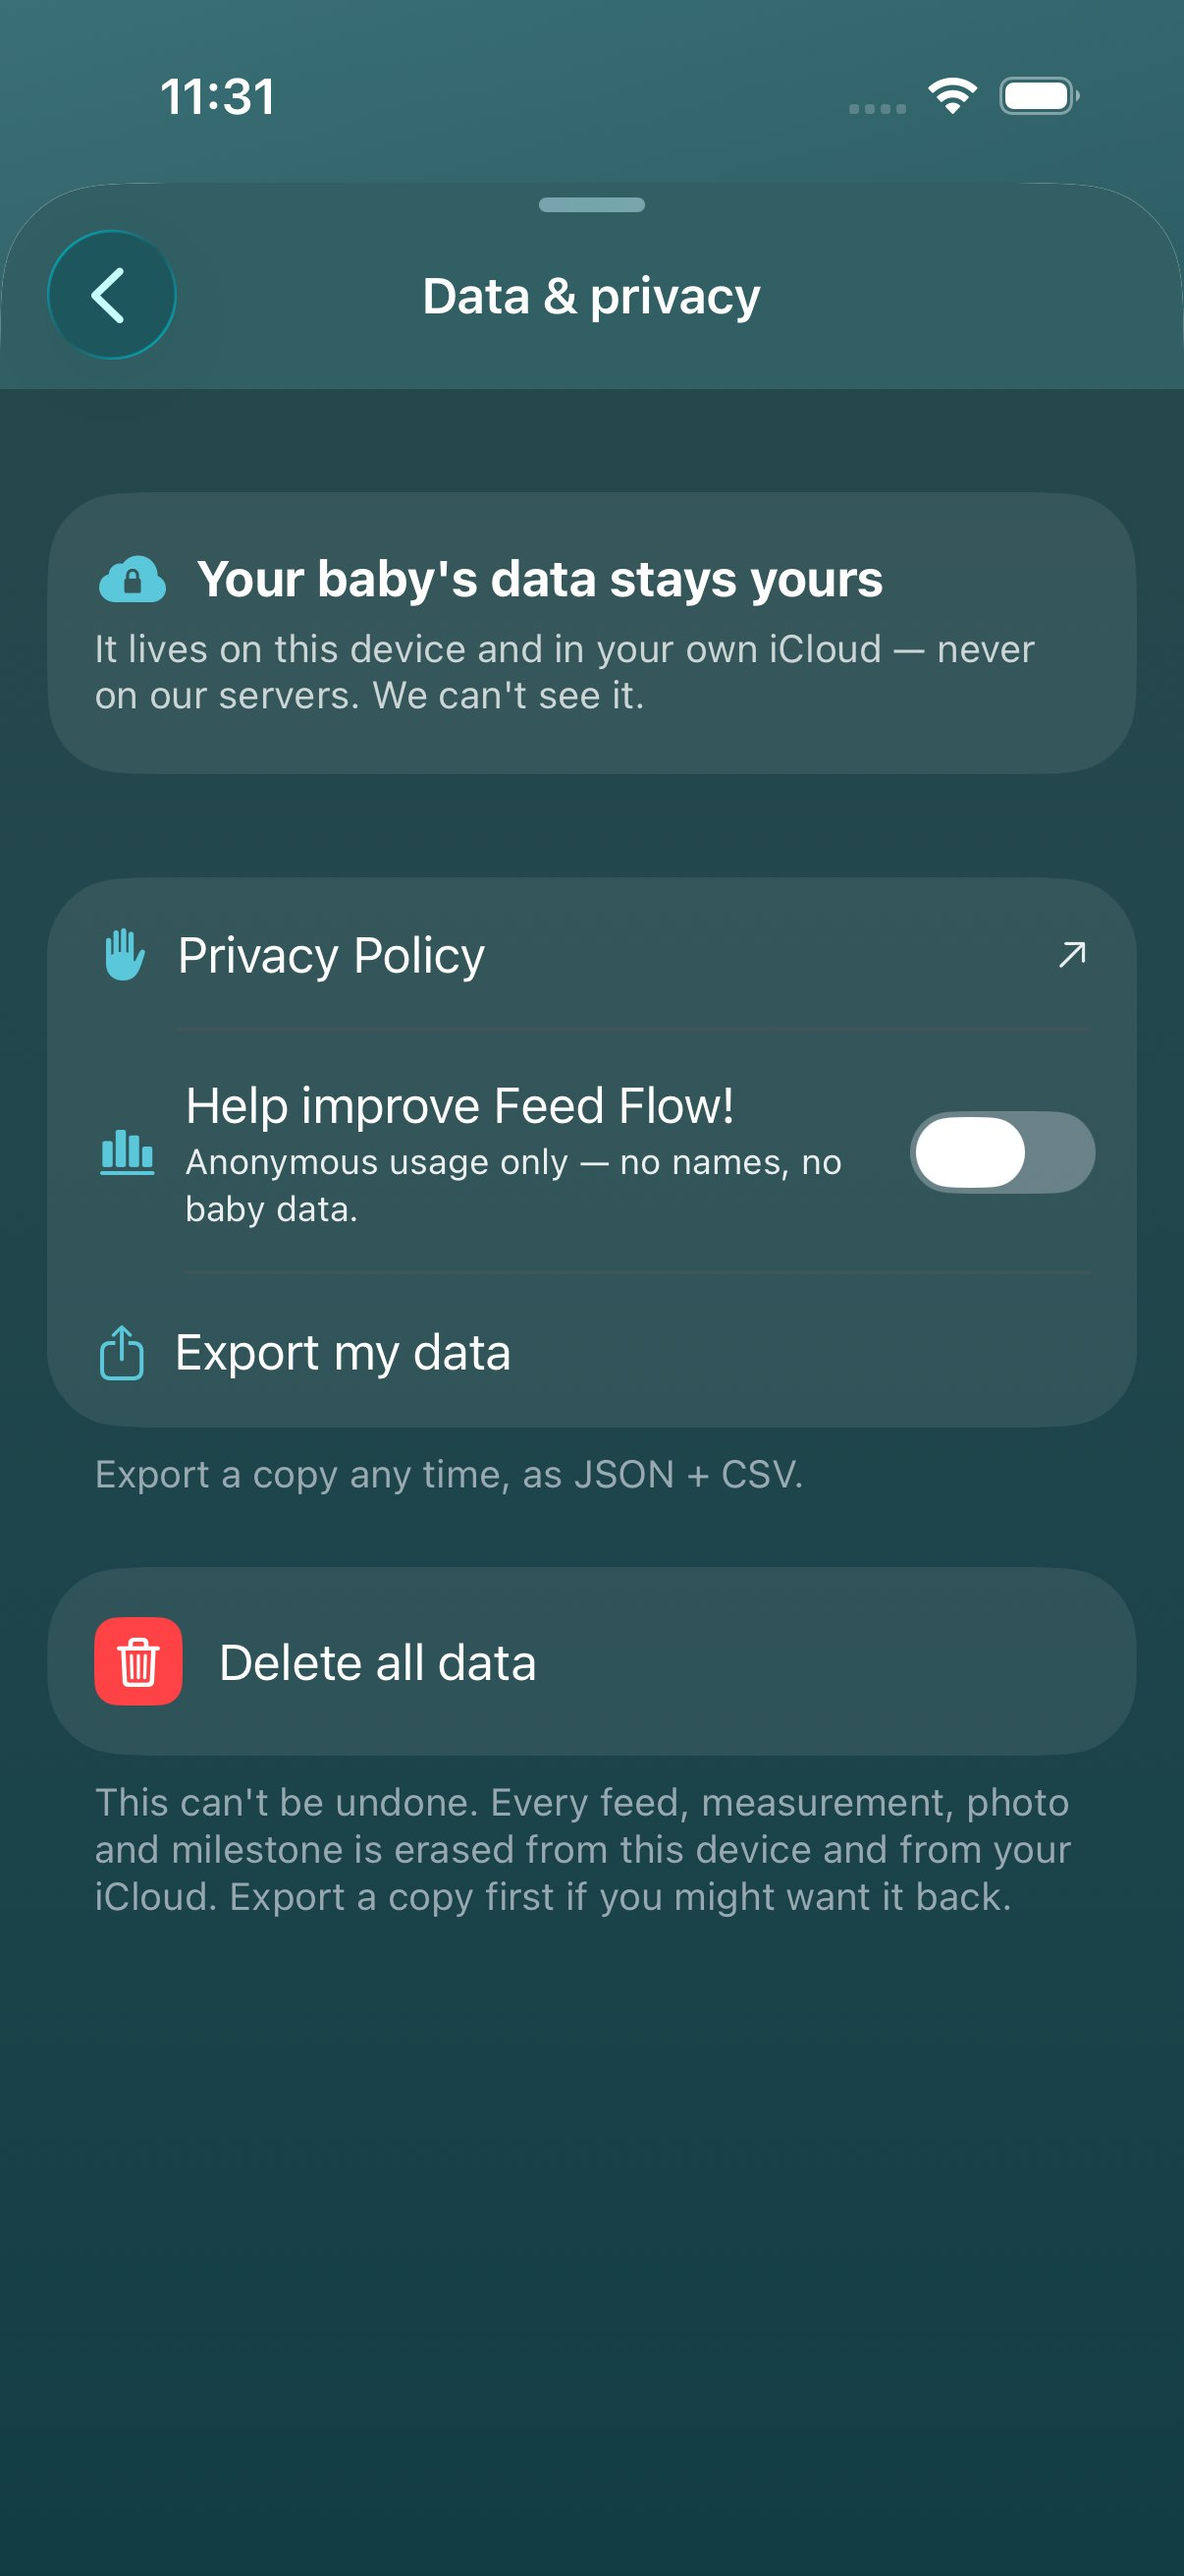
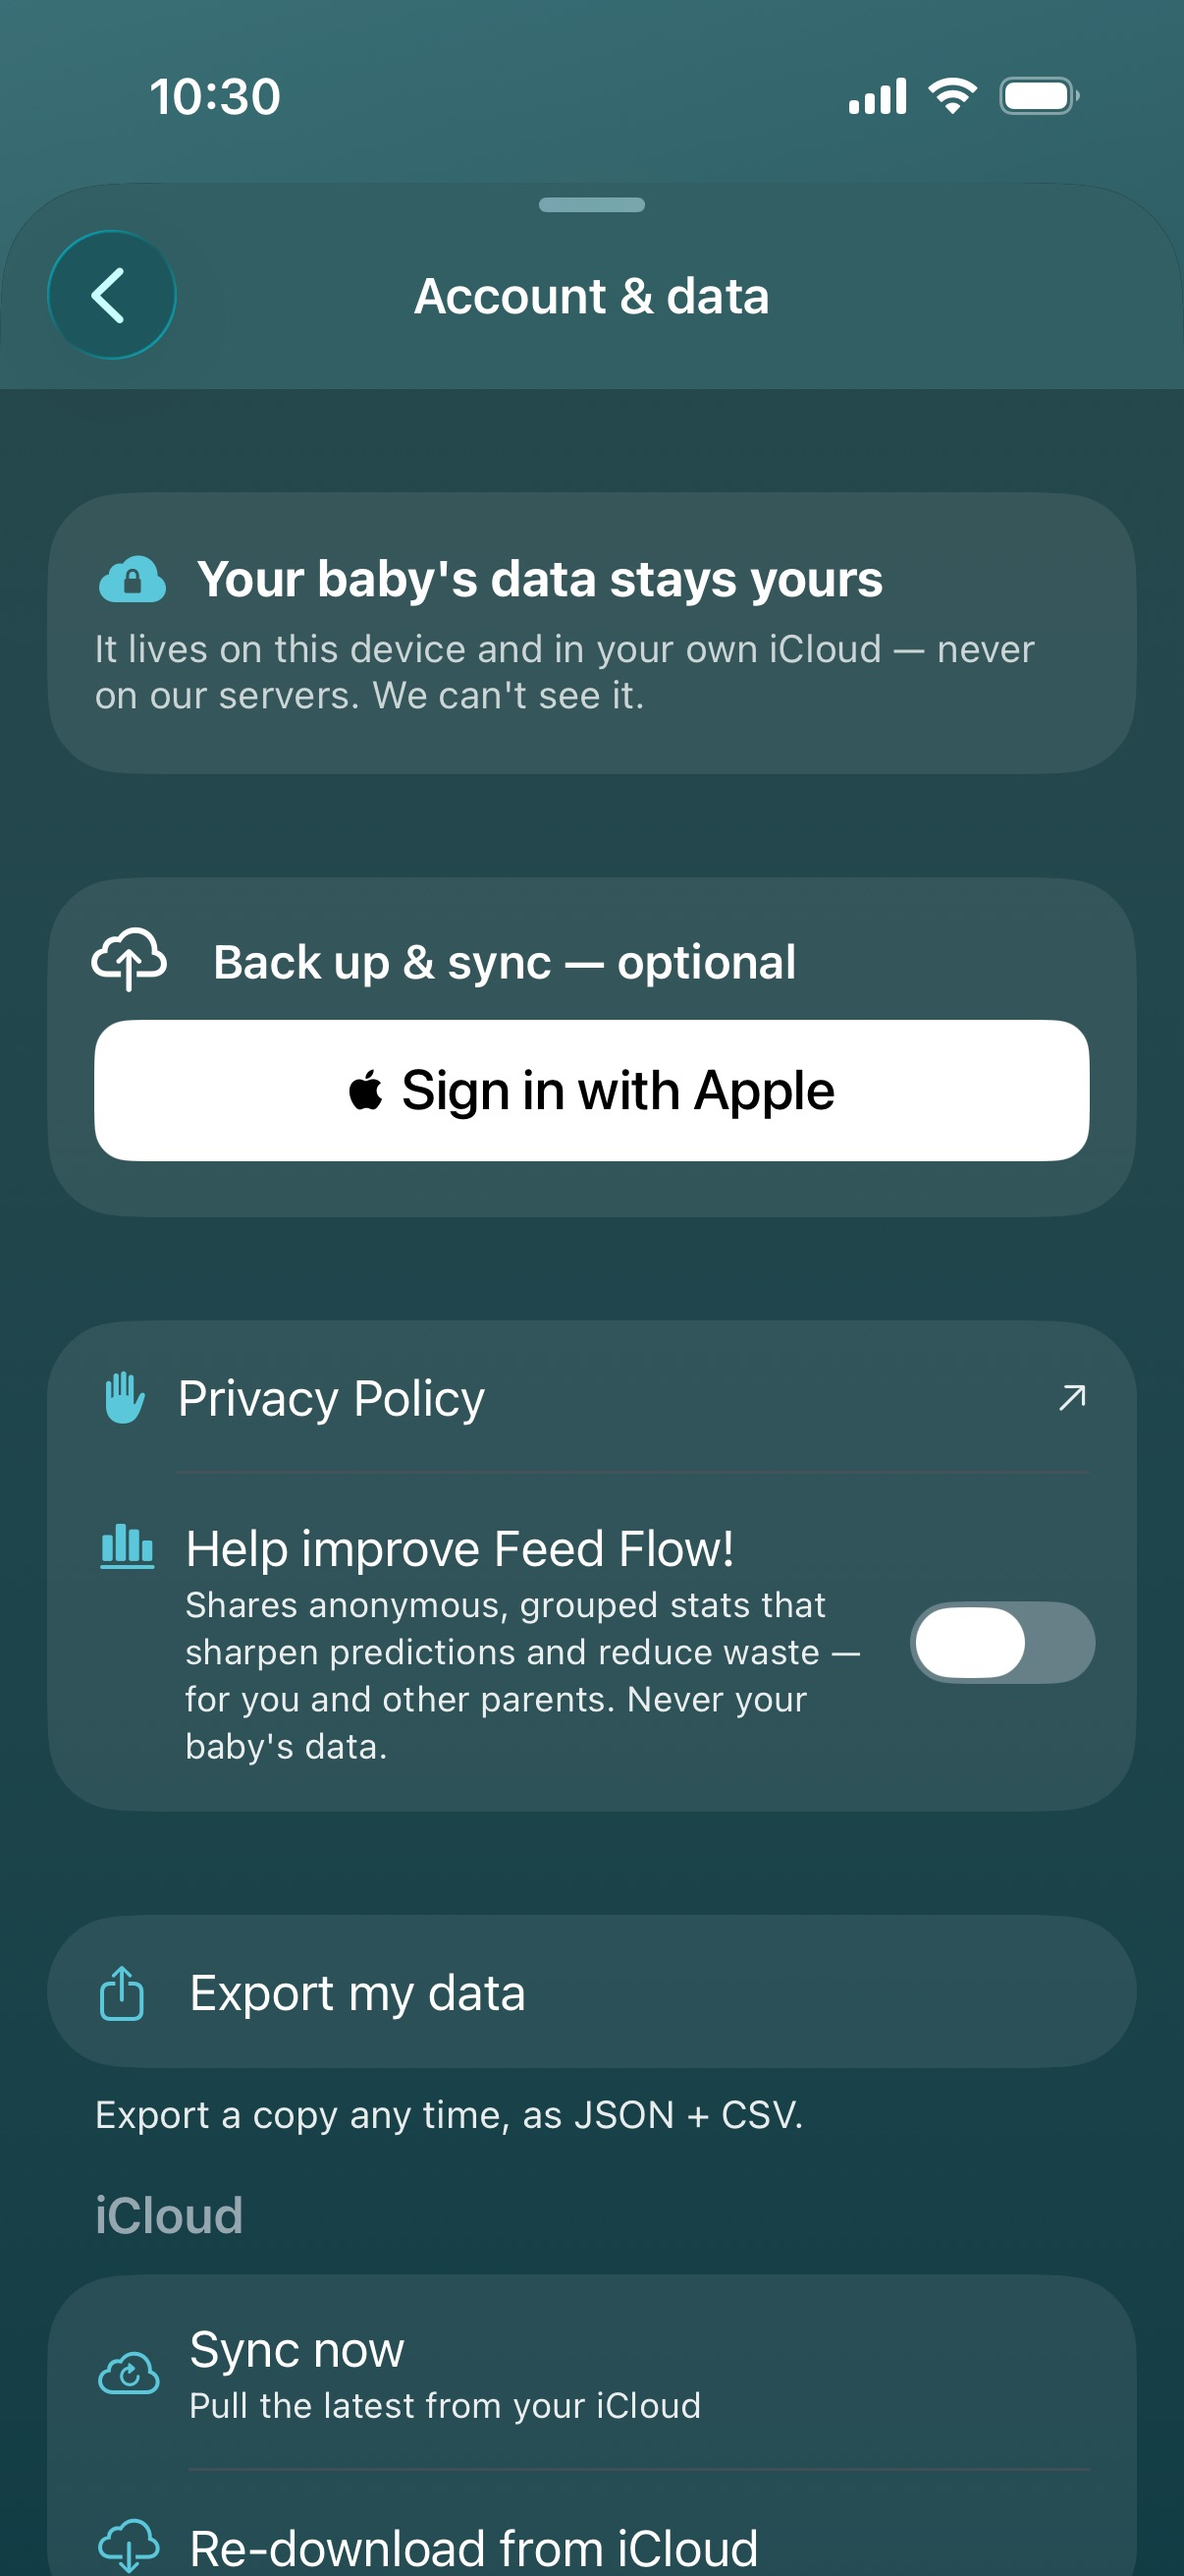
site: screens from the 1.65.4 store set (new bottle sheet, type picker, Account & data); alts + llms.txt family-sharing truth

diff --git a/index.html b/index.html
@@ -560,7 +560,7 @@ footer.ft { border-top: 1px solid var(--border-2); padding: 54px 0 60px; }
   <div class="hero-stage reveal d2">
     <div class="device">
       <div class="plinth"></div>
-      <div class="bezel"><img src="screens/safe-window.jpg" alt="A prepared formula bottle in Feed Flow, with its safe window counting down: started 21:07, 59 minutes 53 seconds remaining, ends 22:07. The bottle shows 70 ml left and the 90 ml taken, with buttons to log and keep the bottle or log and finish." loading="eager"></div>
+      <div class="bezel"><img src="screens/safe-window.jpg" alt="A prepared formula bottle in Feed Flow, with its safe window counting down: started 10:07 AM, 33 minutes 57 seconds left, ends 11:07 AM. The bottle shows 2.25 oz left and 3 oz taken, with buttons to log and keep the bottle or log and finish." loading="eager"></div>
     </div>
   </div>
 </section>
@@ -604,7 +604,7 @@ footer.ft { border-top: 1px solid var(--border-2); padding: 54px 0 60px; }
       <div class="beat-device">
         <div class="device">
           <div class="plinth"></div>
-          <div class="bezel"><img src="screens/logging.jpg" alt="The radial feed-type picker open: breastfeeding, formula, pumping, solids and water, with the one-tap log button at its centre" loading="lazy"></div>
+          <div class="bezel"><img src="screens/logging.jpg" alt="The feed-type picker open over the home screen: nursing, formula, pumping, solids, water and quick log in a ring, with a Health row above for not well, reaction, medicine and vaccine" loading="lazy"></div>
         </div>
       </div>
     </div>
@@ -686,13 +686,13 @@ footer.ft { border-top: 1px solid var(--border-2); padding: 54px 0 60px; }
     </div>
     <!-- The App Store storyboard v2 (2026-08-06), real b207 captures. Same seven, same order. -->
     <div class="gal-strip reveal d2">
-      <img src="screens/store/1-safe.jpg" alt="Is that bottle still good? — a live safe-window countdown on a prepared bottle" loading="lazy">
+      <img src="screens/store/1-safe.jpg" alt="Is that bottle still good? — a live safe-window countdown on a prepared bottle, 2.25 oz left and 3 oz taken" loading="lazy">
       <img src="screens/store/2-normal.jpg" alt="What's normal for your baby — the normal range on a nursing day, measured in minutes" loading="lazy">
-      <img src="screens/store/3-log.jpg" alt="Log any feed in three seconds — the radial picker: bottle, breast, pump, solids, water" loading="lazy">
+      <img src="screens/store/3-log.jpg" alt="Log any feed in three seconds — the type picker: nursing, formula, pumping, solids, water, quick log" loading="lazy">
       <img src="screens/store/4-report.jpg" alt="A report you can hand to the health nurse — open on the WHO growth curve" loading="lazy">
       <img src="screens/store/5-flowcast.jpg" alt="See the day before it happens — FlowCast's next feeds and the gaps between" loading="lazy">
       <img src="screens/store/6-allergens.jpg" alt="Nine allergens, introduced calmly — the allergen journey" loading="lazy">
-      <img src="screens/store/7-privacy.jpg" alt="Your baby's data stays yours — in your own iCloud, we can't see it" loading="lazy">
+      <img src="screens/store/7-privacy.jpg" alt="Your baby's data stays yours — the Account & data screen: it lives on this device and in your own iCloud, never on our servers, with optional Sign in with Apple, export and iCloud sync" loading="lazy">
     </div>
     <div class="gal-hint reveal">← swipe to explore →</div>
   </div>
